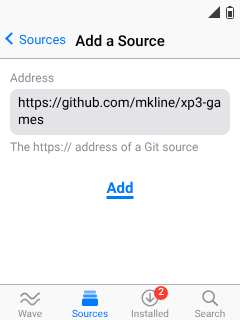
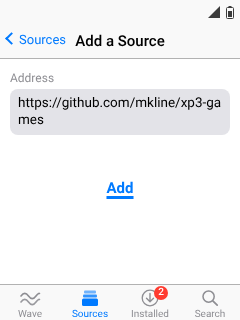
Draw the running step as a spinning ring
The half-circle glyph rendered tiny and its content animation didn't
run everywhere. Also cache-bust the stylesheet.

Changed region(s): [[0.0292, 0.4375, 0.8458, 0.5]]

diff --git a/site/mockups/frames.js b/site/mockups/frames.js
@@ -269,14 +269,14 @@ F('Sources tab', 'add-source', 'Add a Source: typing the address',
     'Paste, Clear.'),
   screen({ tab: 1, badge: 2, mode: 'abc', bar: { back: 'Sources', title: 'Add a Source' }, page:
     `<div class="lab">Address</div><div class="urlf">https://github.com/mkline/xp3-ga<span class="t9">m</span><span class="caret"></span></div>` +
-    `<div class="fieldnote">The https:// address of a Git source</div>` +
+    `<div class="fieldnote">&nbsp;</div>` +
     `<div style="height:16px"></div><div class="btn">Add</div>` }),
   'Starts as https://github.com/ with the cursor at the end. Keys 2 to 9 type by multi-tap (the m underlined is still taking taps), 1 types . / - _, # switches abc / 123, * opens the phone\'s symbols.');
 F('Sources tab', 'add-source-button', 'Add a Source: on Add',
   K('Nothing.', 'Up: back into the address.', 'Fetches the source, then asks to trust it.', 'Back to Sources.', 'Paste, Clear.'),
   screen({ tab: 1, badge: 2, bar: { back: 'Sources', title: 'Add a Source' }, page:
     `<div class="lab">Address</div><div class="urlf rest">https://github.com/mkline/xp3-games</div>` +
-    `<div class="fieldnote">The https:// address of a Git source</div>` +
+    `<div class="fieldnote">&nbsp;</div>` +
     `<div style="height:16px"></div><div class="btn press">Add</div>` }));
 F('Sources tab', 'add-source-fetching', 'Add a Source: fetching it',
   K('Nothing.', 'Nothing.', 'Nothing.', 'Stops the fetch, back to the address.', 'Nothing.'),

diff --git a/site/assets/style.css b/site/assets/style.css
@@ -451,9 +451,16 @@ fieldset .toggle {
     color: #fff;
 }
 .checklist li[data-state="active"]::before {
-    content: "◐";
-    color: #2495e6;
-    animation: spin 0.8s steps(4) infinite;
+    content: "";
+    box-sizing: border-box;
+    justify-self: center;
+    align-self: center;
+    width: 0.85em;
+    height: 0.85em;
+    border: 2px solid rgba(36, 149, 230, 0.25);
+    border-top-color: #2495e6;
+    border-radius: 50%;
+    animation: spin 0.8s linear infinite;
 }
 .checklist li[data-state="waiting"]::before {
     content: "›";
@@ -480,14 +487,8 @@ fieldset .toggle {
     text-align: right;
 }
 @keyframes spin {
-    0% { content: "◐"; }
-    25% { content: "◓"; }
-    50% { content: "◑"; }
-    75% { content: "◒"; }
-}
-@media (prefers-reduced-motion: reduce) {
-    .checklist li[data-state="active"]::before {
-        animation: none;
+    to {
+        transform: rotate(360deg);
     }
 }
 .status.ok {

diff --git a/site/recovery/index.html b/site/recovery/index.html
@@ -8,7 +8,7 @@
   <meta http-equiv="Content-Security-Policy" content="default-src 'none'; script-src 'self'; style-src 'self'; img-src 'self'; font-src 'self'; connect-src 'self'; base-uri 'none'; form-action 'none'; object-src 'none'">
   <title>Wave Recovery</title>
   <link rel="icon" href="../assets/wave-icon.svg">
-  <link rel="stylesheet" href="../assets/style.css">
+  <link rel="stylesheet" href="../assets/style.css?v=spinner">
   <link rel="license" href="../assets/fonts/cascadia-code-OFL.txt">
   <script type="module" src="../src/root/recovery.mjs?v=redesign2"></script>
 </head>

diff --git a/site/index.html b/site/index.html
@@ -11,7 +11,7 @@
         />
         <title>Wave Installer</title>
         <link rel="icon" href="assets/wave-icon.svg" />
-        <link rel="stylesheet" href="assets/style.css" />
+        <link rel="stylesheet" href="assets/style.css?v=spinner" />
         <link rel="license" href="assets/fonts/cascadia-code-OFL.txt" />
         <script
             type="module"
